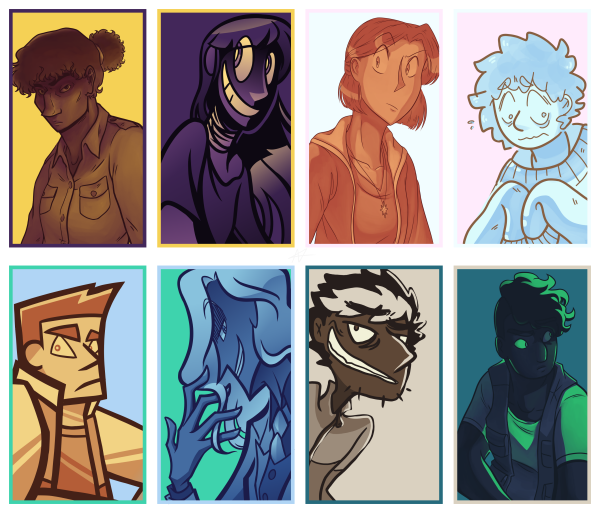
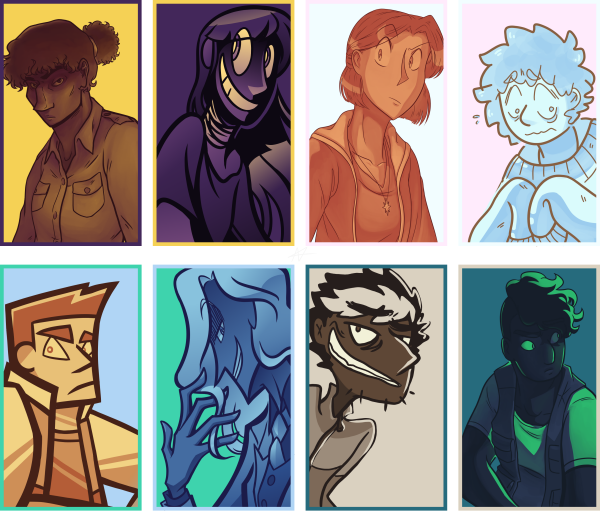
fucktonne of art

diff --git a/assets/1.1.css b/assets/1.1.css
@@ -31,6 +31,8 @@ tr:first-child,td:first-child{font-weight:bold;}
 
 summary{cursor:pointer;} summary:hover,summary:active{color:#fff;}
 
+iframe{border:0;}
+
 .spoiler{background:#808080; color:#808080; cursor:pointer;} figure.spoiler{background:0; cursor:initial;}
 .showhide{background:0; color:#adadad;}
 img.spoiler{filter:blur(30px) grayscale(75%);} img.showhide{filter:none;}
@@ -40,10 +42,11 @@ footer{font-size:.65em; text-align:right; color:#5e5e5e; padding-top:10rem;} foo
 
 
 /*specific sections*/
-#back{font-size:.85em; font-style:italic; color:#adadad; margin-top:3rem;}
+#info,#back{font-size:.85em; color:#adadad;}
+#back{font-style:italic; margin-top:3rem;}
 
 .artwall{margin:1rem auto; line-height:0; font-size:0; text-align:center;} .artwall a{display:inline-block; transition:.05s; margin:5px;} .artwall a:hover,.artwall a:active,.artwall a:focus{filter:none !important; opacity:1 !important;}
 
 #cast{max-width:500px;} #cast a{filter:grayscale(100%); opacity:.85;}
 @media only screen and (min-width:700px){#cast{max-width:700px;}}
-#gallery{max-width:850px;}
+#gallery{max-width:1700px;} #gallery a{filter:brightness(75%);}

diff --git a/_gallery/2021-04-lineup.md b/_gallery/2021-04-lineup.md
@@ -1,0 +1,14 @@
+---
+layout: 1.1-gallery
+subpage: gallery
+title: oh boy a lineup
+img: 2021-04
+permalink: /gallery/lineup1
+drawnon: April 2021
+da: oh-boy-a-lineup-876414720
+---
+First go at a proper <a href="https://www.deviantart.com/swiftgold/art/blank-height-chart-121670324" target="_blank">height chart</a>. (Note that, while the exact numerical measurements have since been deprecated in favor of relative heights only, these are still more or less accurate.) Still wasn't happy with design #8.
+
+There were also two alternate versions, which weren't included because it looked weird with only two characters appearing multiple times:
+
+<img src="{%include url.html%}/assets/img/gallery/2021-04-alts.png" alt=""/>

diff --git a/_gallery/2021-08-27-colorscript.md b/_gallery/2021-08-27-colorscript.md
@@ -1,0 +1,13 @@
+---
+layout: 1.1-gallery
+subpage: gallery
+title: your one and only spoiler warning
+img: 2021-08
+permalink: /gallery/colorscript
+drawnon: August 18–27, 2021
+---
+You're about to view **a full <a href="https://www.moma.org/audio/playlist/192/2575" target="_blank">colorscript</a>** to the entire story as it stood in August 2021. Elements may or may not have remained since; might make sense out of context, might not. I provide no further commentary.
+
+**<a href="{%include url.html%}/assets/img/gallery/2021-08-colorscript.png" target="_blank">"I don't care, show me the spoilerage!"</a>** (opens the full image in a new tab/window)
+
+Alternatively, return to whence you came.

diff --git a/_gallery/2021-10-28-helloween.md b/_gallery/2021-10-28-helloween.md
@@ -1,0 +1,16 @@
+---
+layout: 1.1-gallery
+subpage: gallery
+title: blackmail material
+img: 2021-10-28
+permalink: /gallery/helloween
+drawnon: October 27–29, 2021
+da: blackmail-material-896339427
+---
+Halloween costumes. [Again]({%include url.html%}/gallery/sleepover), the sentiment is canon enough; the scenario is very much not.
+
+Also has alternate version, because "these designs are not made for flat colors" [strikes again]({%include url.html%}/gallery/batta).
+
+{%include figure.html picture="" subcat="gallery" img="2021-10-28-alt"%}
+
+Also also, <a href="https://sta.sh/0l096ifhi2x" target="_blank">these</a> two <a href="https://sta.sh/0ea4kqks7x9" target="_blank">things</a>.

diff --git a/_gallery/2021-08-22-smoking.md b/_gallery/2021-08-22-smoking.md
@@ -1,0 +1,10 @@
+---
+layout: 1.1-gallery
+subpage: gallery
+title: smoking is bad, kids
+img: 2021-08-22
+permalink: /gallery/smoking
+drawnon: August 22, 2021
+da: smoking-is-bad-kids-889630417
+---
+Visual inspirations: <a href="https://www.youtube.com/watch?v=9vuqI2v2IRs" target="_blank">60s psychedelic posters</a> + the cover of John Darnielle's <a href="https://us.macmillan.com/books/9781250159991" target="_blank"><i>Universal Harvester</i></a> + <a href="https://www.instagram.com/p/CMxnHu6lNEN/" target="_blank">first drawing here</a> by wiillyamm on instagram. Lyrics from Mokyo's <a href=" https://www.youtube.com/watch?v=Z8zyJFHMdDg" target="_blank">"I'm an independent man</a>

diff --git a/gallery.md b/gallery.md
@@ -2,6 +2,8 @@
 layout: 1.1
 title: gallery
 ---
-Currently in the process of copying over smaller scribbles, many of which are scattered throughout monthly roundups. For now, here's the big/standalone stuff.
+Currently copying over smaller scribbles, many of which are scattered throughout monthly roundups. For now, here's some art that got uploaded separately.
+
+Fair warning: files may be huge.
 
 <section id="gallery" class="artwall">{%for tn in site.gallery%}<a href="{{tn.url}}"><img src="{%include url.html%}/assets/img/gallery/{{tn.img}}-tn.png" alt="title"/></a>{%endfor%}</section>

diff --git a/_gallery/2021-06-25-hyperpop.md b/_gallery/2021-06-25-hyperpop.md
@@ -1,0 +1,12 @@
+---
+layout: 1.1-gallery
+subpage: gallery
+title: hyperpop up in my ears 𝅘𝅥𝅮
+img: 2021-06-25
+permalink: /gallery/hyperpop
+drawnon: June 25, 2021
+da: HYPERPOP-UP-IN-MY-EARS-883719185
+---
+Title from <a href="https://www.youtube.com/watch?v=BfV4ZDgumTQ" target="_blank">ElyOtto's "SugarCrash!"</a>; ear-lollipop based on <a href="https://happytreefriends.fandom.com/wiki/Nutty" target="_blank">this character</a> (cartoon gore warning). Upscaled x2 from the original because why not.
+
+{%include figure.html subcat="artdump" img="2021-06-25"%}

diff --git a/_gallery/2021-02-battlecuts.md b/_gallery/2021-02-battlecuts.md
@@ -1,10 +1,10 @@
 ---
 layout: 1.1-gallery
-title: battlecuts
+title: "choose your fighter or w/e"
 img: 2021-02
 permalink: /gallery/battlecuts
 subpage: gallery
 drawnon: February 21–2, 2021
 da: choose-your-fighter-or-w-e-871148577
 ---
-hmmm
+Some faux-"<a href="https://www.deviantart.com/dragonith/gallery?q=%23battlecuts" target="_blank">battlecuts</a>" of the main eight. Also trying to use art styles that, to varying degrees of vagueness, inspired each design. Y'know, for <a href="https://sta.sh/01jb4ietx7md" target="_blank">character development</a>.

diff --git a/_gallery/2021-07-08-sleepover.md b/_gallery/2021-07-08-sleepover.md
@@ -1,0 +1,14 @@
+---
+layout: 1.1-gallery
+subpage: gallery
+title: whatcha waaaatchin
+img: 2021-07-08
+permalink: /gallery/sleepover
+drawnon: July 7–8, 2021
+da: whatcha-waaaatchin-885080555
+---
+<a href="https://en.wikipedia.org/wiki/The_Carpal_Tunnel_of_Love#Music_video" target="_blank">The tastes</a> may be roughly-canonical but the group slumber party is sure as hell not.
+
+There are two versions of this because the original coloring was too muted for my tastes.
+
+{%include figure.html subcat="gallery" picture="" img="2021-07-08-alt"%}

diff --git a/_gallery/2021-09-06-butyou.md b/_gallery/2021-09-06-butyou.md
@@ -1,0 +1,14 @@
+---
+layout: 1.1-gallery
+subpage: gallery
+title: but you
+img: 2021-09-06
+permalink: /gallery/butyou
+drawnon: September 6, 2021
+da: but-you-891112073
+---
+Title partially alludes to a former title consideration, <i>No one else but you</i>.
+
+Bonus banner version, because I like how the lines turned out but I think they got a bit lost with color:
+
+{%include figure.html subcat="gallery" picture="" img="2021-09-06-banner"%}

diff --git a/_gallery/2021-07-19-ipad.md b/_gallery/2021-07-19-ipad.md
@@ -1,0 +1,10 @@
+---
+layout: 1.1-gallery
+subpage: gallery
+title: welcome to my twisted iPad
+img: 2021-07-19
+permalink: /gallery/ipad
+drawnon: July 19, 2021
+da: your-mind-upsets-me-really-886154865
+---
+Flagrant abuse of MediBang Paint for iPad, ft. lyrics from Crystal Castles' <a href="https://www.youtube.com/watch?v=mFNwLpMkAiM" target="_blank">"Cry Babies"</a> if you squint. (No character relation, just happened to have it on.)

diff --git a/_gallery/2021-09-17-batta.md b/_gallery/2021-09-17-batta.md
@@ -1,0 +1,13 @@
+---
+layout: 1.1-gallery
+subpage: gallery
+title: hey batta batta
+img: 2021-09-17
+permalink: /gallery/batta
+drawnon: September 17, 2021
+da: hey-batta-batta-892199885
+---
+Baseball bats <span style="display:inline-block">\o/</span>
+
++alternate version because some of these designs were really not made to work with full color:
+{%include figure.html subcat="gallery" picture="" img="2021-09-17-alt"%}
